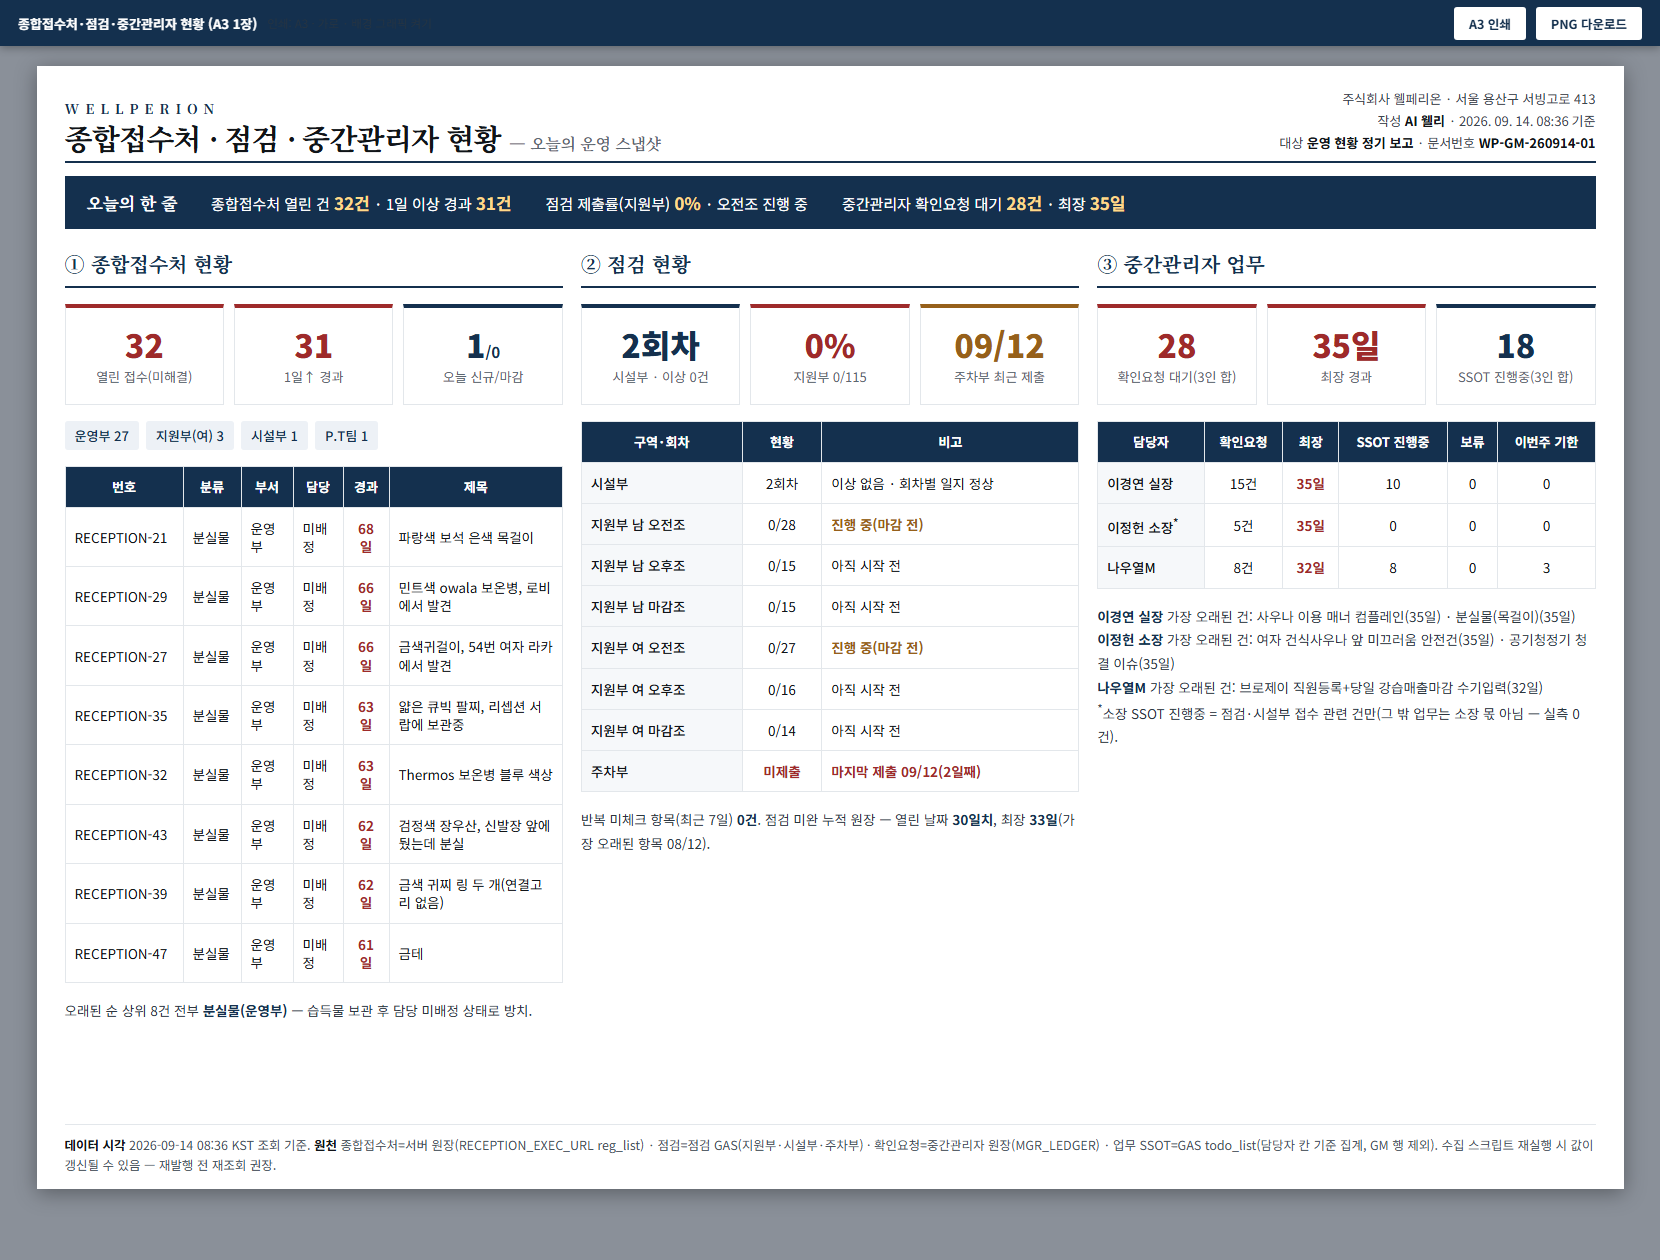
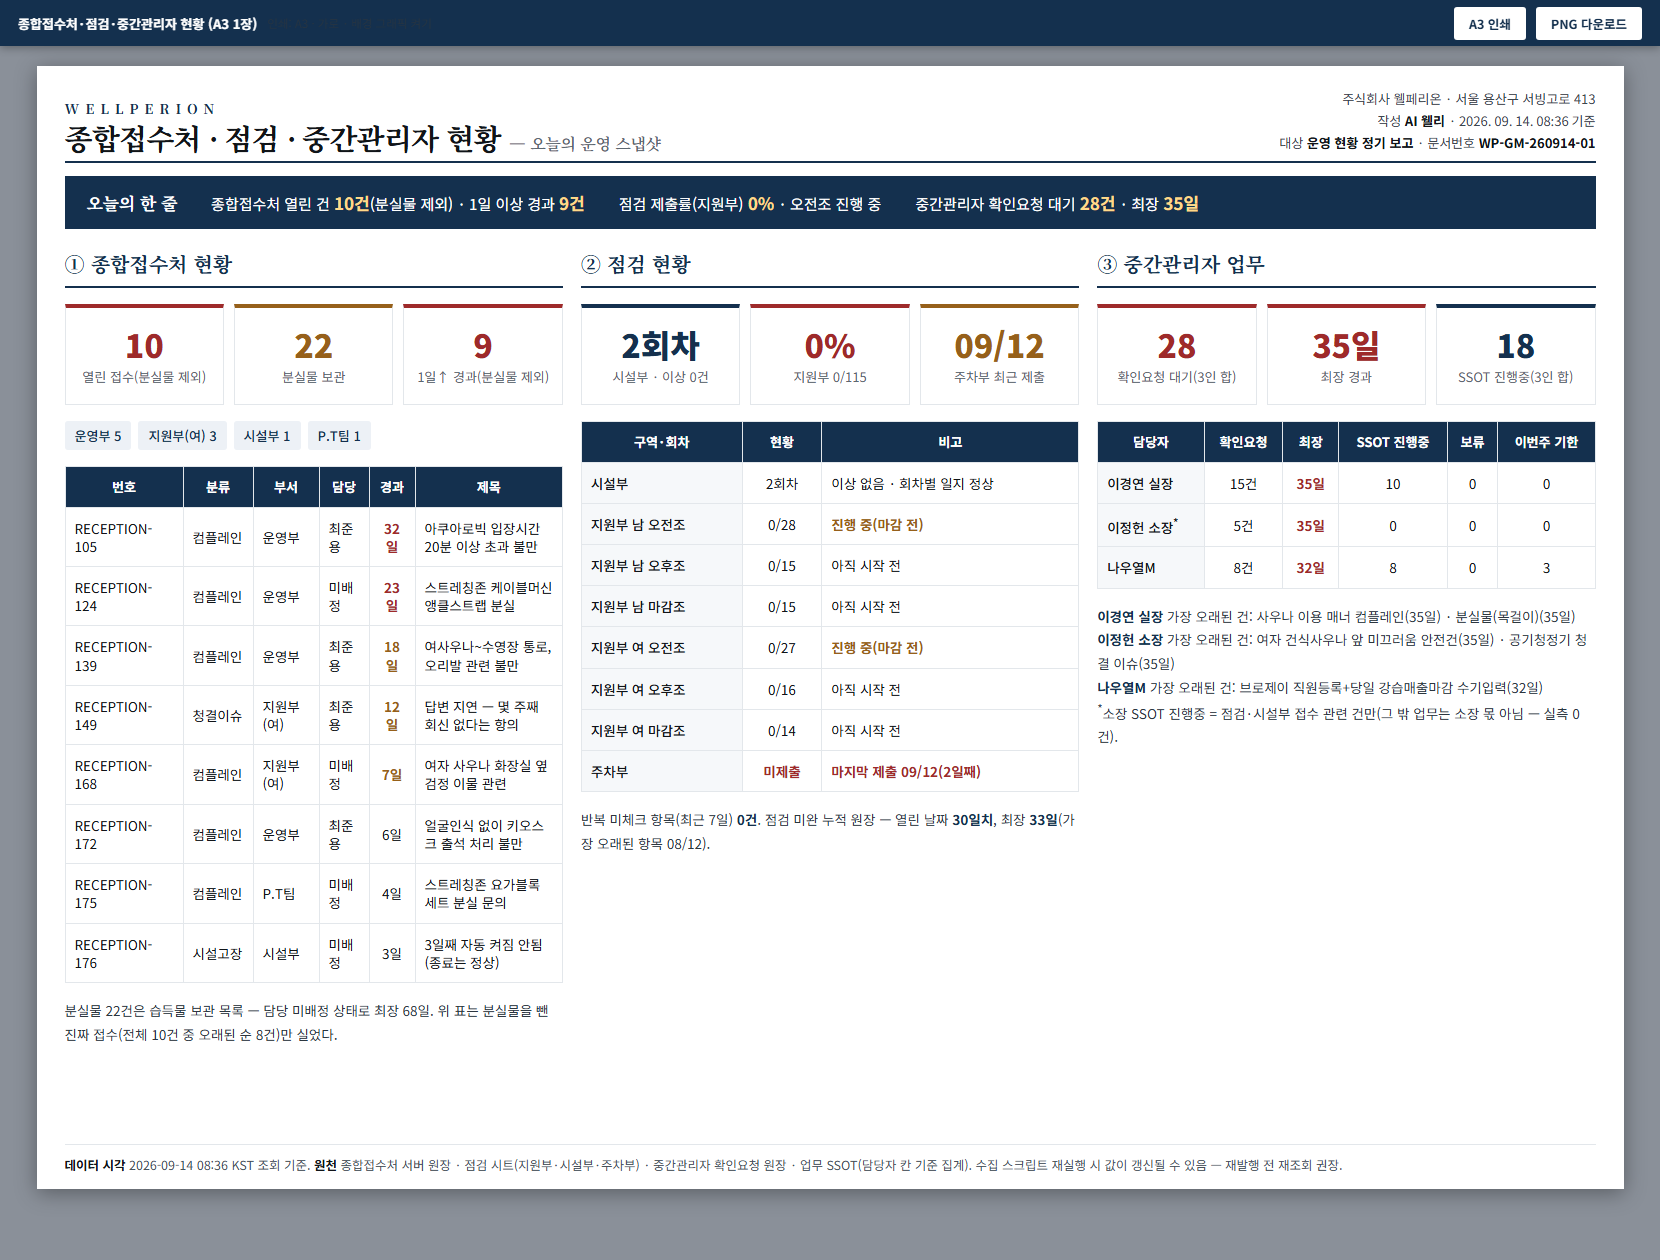
[웰리] 종합접수처·점검·중간관리자 현황 A3 2차 (2026-09-14)
Claude-Session: https://claude.ai/code/session_01JUKggyjF6sJqPQS1zakrb9

diff --git a/3. 웰페리온 가이드/reports/260914_종합접수처_점검_중간관리자_현황_A3.html b/3. 웰페리온 가이드/reports/260914_종합접수처_점검_중간관리자_현황_A3.html
@@ -91,7 +91,7 @@
 
   <div class="band">
     <div class="h">오늘의 한 줄</div>
-    <div class="item">종합접수처 열린 건 <b>32건</b> · 1일 이상 경과 <b>31건</b></div>
+    <div class="item">종합접수처 열린 건 <b>10건</b>(분실물 제외) · 1일 이상 경과 <b>9건</b></div>
     <div class="item">점검 제출률(지원부) <b>0%</b> · 오전조 진행 중</div>
     <div class="item">중간관리자 확인요청 대기 <b>28건</b> · 최장 <b>35일</b></div>
   </div>
@@ -102,28 +102,28 @@
     <div class="col">
       <div class="colhead">① 종합접수처 현황</div>
       <div class="stats">
-        <div class="stat bad"><div class="n">32</div><div class="l">열린 접수(미해결)</div></div>
-        <div class="stat bad"><div class="n">31</div><div class="l">1일↑ 경과</div></div>
-        <div class="stat"><div class="n">1<small>/0</small></div><div class="l">오늘 신규/마감</div></div>
+        <div class="stat bad"><div class="n">10</div><div class="l">열린 접수(분실물 제외)</div></div>
+        <div class="stat warn"><div class="n">22</div><div class="l">분실물 보관</div></div>
+        <div class="stat bad"><div class="n">9</div><div class="l">1일↑ 경과(분실물 제외)</div></div>
       </div>
       <div class="badges">
-        <span>운영부 27</span><span>지원부(여) 3</span><span>시설부 1</span><span>P.T팀 1</span>
+        <span>운영부 5</span><span>지원부(여) 3</span><span>시설부 1</span><span>P.T팀 1</span>
       </div>
       <table style="table-layout:fixed; font-size:12.3px">
-        <colgroup><col style="width:118px"><col style="width:58px"><col style="width:52px"><col style="width:50px"><col style="width:46px"><col></colgroup>
+        <colgroup><col style="width:118px"><col style="width:70px"><col style="width:66px"><col style="width:50px"><col style="width:46px"><col></colgroup>
         <thead><tr><th>번호</th><th>분류</th><th>부서</th><th>담당</th><th class="ctr">경과</th><th>제목</th></tr></thead>
         <tbody>
-          <tr><td>RECEPTION-21</td><td>분실물</td><td>운영부</td><td>미배정</td><td class="ctr bad-t">68일</td><td>파랑색 보석 은색 목걸이</td></tr>
-          <tr><td>RECEPTION-29</td><td>분실물</td><td>운영부</td><td>미배정</td><td class="ctr bad-t">66일</td><td>민트색 owala 보온병, 로비에서 발견</td></tr>
-          <tr><td>RECEPTION-27</td><td>분실물</td><td>운영부</td><td>미배정</td><td class="ctr bad-t">66일</td><td>금색귀걸이, 54번 여자 라카에서 발견</td></tr>
-          <tr><td>RECEPTION-35</td><td>분실물</td><td>운영부</td><td>미배정</td><td class="ctr bad-t">63일</td><td>얇은 큐빅 팔찌, 리셉션 서랍에 보관중</td></tr>
-          <tr><td>RECEPTION-32</td><td>분실물</td><td>운영부</td><td>미배정</td><td class="ctr bad-t">63일</td><td>Thermos 보온병 블루 색상</td></tr>
-          <tr><td>RECEPTION-43</td><td>분실물</td><td>운영부</td><td>미배정</td><td class="ctr bad-t">62일</td><td>검정색 장우산, 신발장 앞에 뒀는데 분실</td></tr>
-          <tr><td>RECEPTION-39</td><td>분실물</td><td>운영부</td><td>미배정</td><td class="ctr bad-t">62일</td><td>금색 귀찌 링 두 개(연결고리 없음)</td></tr>
-          <tr><td>RECEPTION-47</td><td>분실물</td><td>운영부</td><td>미배정</td><td class="ctr bad-t">61일</td><td>금테</td></tr>
+          <tr><td>RECEPTION-105</td><td>컴플레인</td><td>운영부</td><td>최준용</td><td class="ctr bad-t">32일</td><td>아쿠아로빅 입장시간 20분 이상 초과 불만</td></tr>
+          <tr><td>RECEPTION-124</td><td>컴플레인</td><td>운영부</td><td>미배정</td><td class="ctr bad-t">23일</td><td>스트레칭존 케이블머신 앵클스트랩 분실</td></tr>
+          <tr><td>RECEPTION-139</td><td>컴플레인</td><td>운영부</td><td>최준용</td><td class="ctr warn-t">18일</td><td>여사우나~수영장 통로, 오리발 관련 불만</td></tr>
+          <tr><td>RECEPTION-149</td><td>청결이슈</td><td>지원부(여)</td><td>최준용</td><td class="ctr warn-t">12일</td><td>답변 지연 — 몇 주째 회신 없다는 항의</td></tr>
+          <tr><td>RECEPTION-168</td><td>컴플레인</td><td>지원부(여)</td><td>미배정</td><td class="ctr warn-t">7일</td><td>여자 사우나 화장실 옆 검정 이물 관련</td></tr>
+          <tr><td>RECEPTION-172</td><td>컴플레인</td><td>운영부</td><td>최준용</td><td class="ctr">6일</td><td>얼굴인식 없이 키오스크 출석 처리 불만</td></tr>
+          <tr><td>RECEPTION-175</td><td>컴플레인</td><td>P.T팀</td><td>미배정</td><td class="ctr">4일</td><td>스트레칭존 요가블록 세트 분실 문의</td></tr>
+          <tr><td>RECEPTION-176</td><td>시설고장</td><td>시설부</td><td>미배정</td><td class="ctr">3일</td><td>3일째 자동 켜짐 안됨(종료는 정상)</td></tr>
         </tbody>
       </table>
-      <div class="note">오래된 순 상위 8건 전부 <b>분실물(운영부)</b> — 습득물 보관 후 담당 미배정 상태로 방치.</div>
+      <div class="note">분실물 22건은 습득물 보관 목록 — 담당 미배정 상태로 최장 68일. 위 표는 분실물을 뺀 진짜 접수(전체 10건 중 오래된 순 8건)만 실었다.</div>
     </div>
 
     <!-- ② 점검 현황 -->
@@ -178,7 +178,7 @@
 
   <div class="foot">
     <b>데이터 시각</b> 2026-09-14 08:36 KST 조회 기준.
-    <b>원천</b> 종합접수처=서버 원장(RECEPTION_EXEC_URL reg_list) · 점검=점검 GAS(지원부·시설부·주차부) · 확인요청=중간관리자 원장(MGR_LEDGER) · 업무 SSOT=GAS todo_list(담당자 칸 기준 집계, GM 행 제외).
+    <b>원천</b> 종합접수처 서버 원장 · 점검 시트(지원부·시설부·주차부) · 중간관리자 확인요청 원장 · 업무 SSOT(담당자 칸 기준 집계).
     수집 스크립트 재실행 시 값이 갱신될 수 있음 — 재발행 전 재조회 권장.
   </div>
 </div>
